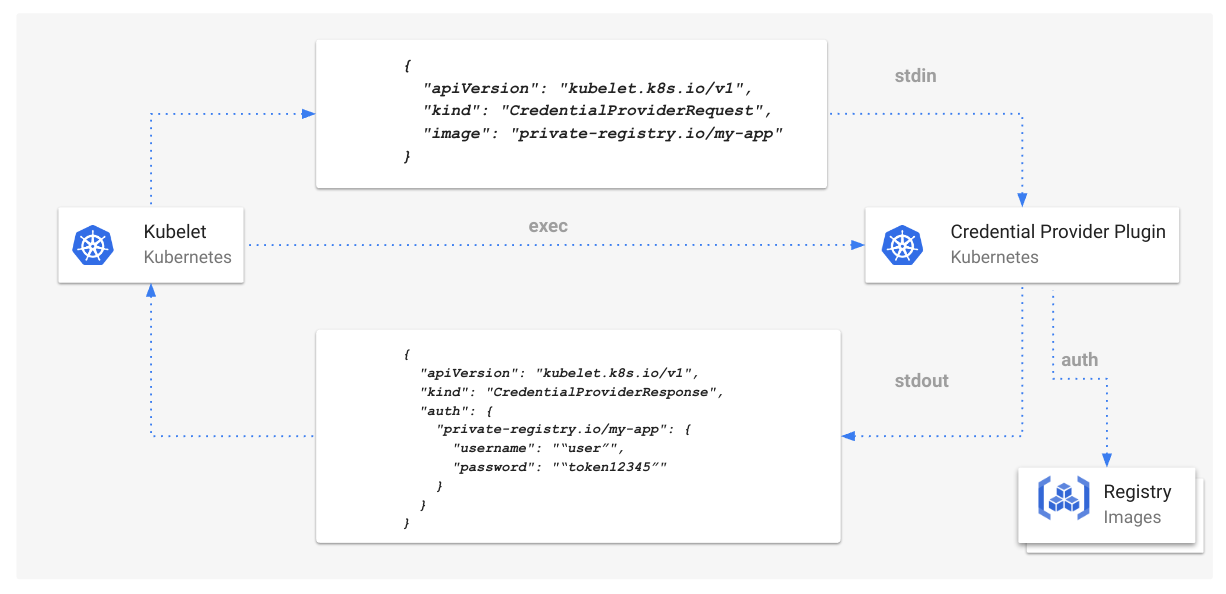
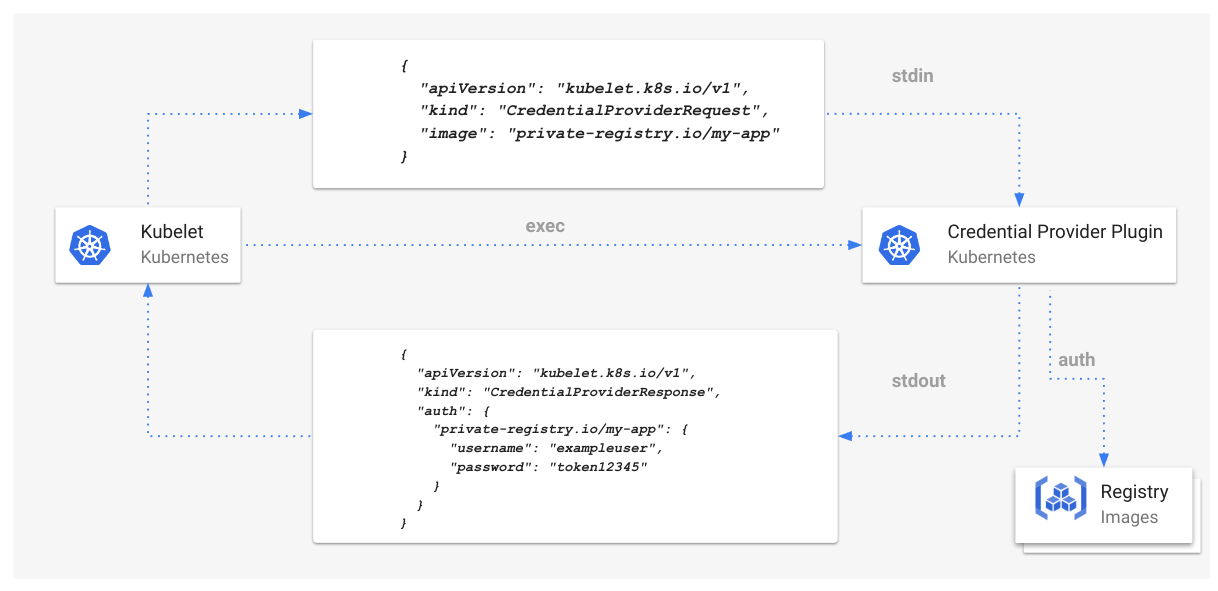
address review comments for minor fixes

diff --git a/content/en/blog/_posts/2022-12-22-kubelet-credential-providers/index.md b/content/en/blog/_posts/2022-12-22-kubelet-credential-providers/index.md
@@ -7,8 +7,9 @@ slug: kubelet-credential-providers
 
 **Authors:** Andrew Sy Kim (Google), Dixita Narang (Google)
 
-Kubernetes v1.26 introduced generally available (GA) support for _kubelet credential
-provider plugins_, offering an extensible plugin framework to dynamically fetch credentials
+Kubernetes v1.26 introduced generally available (GA) support for [_kubelet credential
+provider plugins_]( /docs/tasks/kubelet-credential-provider/kubelet-credential-provider/),
+offering an extensible plugin framework to dynamically fetch credentials
 for any container image registry.
 
 ## Background
@@ -20,7 +21,7 @@ Amazon Elastic Container Registry, Azure Container Registry, and Google Cloud Co
 {{< figure src="kubelet-credential-providers-in-tree.png" caption="Figure 1: Kubelet built-in credential provider support for Amazon Elastic Container Registry, Azure Container Registry, and Google Cloud Container Registry." >}}
 
 Kubernetes v1.20 introduced alpha support for kubelet credential providers plugins,
-which provide a mechanism for the kubelet to dynamically authenticate and pull images
+which provides a mechanism for the kubelet to dynamically authenticate and pull images
 for arbitrary container registries - whether these are public registries, managed services,
 or even a self-hosted registry.
 In Kubernetes v1.26, this feature is now GA
@@ -35,18 +36,18 @@ other than ACR (Azure Container Registry), ECR (Elastic Container Registry), or 
 The new plugin mechanism can be used in any cluster, and lets you authenticate to new registries without
 any changes to Kubernetes itself. Any cloud provider or vendor can publish a plugin that lets you authenticate with their image registry.
 
-## How it Works
+## How it works
 
-The kubelet and the credential provider plugin binary communicate through stdio (stdin, stdout, and stderr) by sending and receiving
+The kubelet and the exec plugin binary communicate through stdio (stdin, stdout, and stderr) by sending and receiving
 json-serialized api-versioned types. If the exec plugin is enabled and the kubelet requires authentication information for an image
-that matches against a plugin, the kubelet will exec the plugin binary, passing the `CredentialProviderRequest` API via stdin. Then
+that matches against a plugin, the kubelet will execute the plugin binary, passing the `CredentialProviderRequest` API via stdin. Then
 the exec plugin communicates with the container registry to dynamically fetch the credentials and returns the credentials in an
 encoded response of the `CredentialProviderResponse` API to the kubelet via stdout.
 
 {{< figure src="kubelet-credential-providers-how-it-works.png" caption="Figure 3: Kubelet credential provider plugin flow" >}}
 
-On receiving credentials from the Kubelet, the plugin can also indicate how long credentials can be cached for, to prevent unecessary
-execution of the plugin by the Kubelet for subsequent image pull requests to the same registry. In cases where the cache duration
+On receiving credentials from the kubelet, the plugin can also indicate how long credentials can be cached for, to prevent unnecessary
+execution of the plugin by the kubelet for subsequent image pull requests to the same registry. In cases where the cache duration
 is not specified by the plugin, a default cache duration can be specified by the kubelet (more details below).
 
 ```json
@@ -56,8 +57,8 @@ is not specified by the plugin, a default cache duration can be specified by the
   "auth": {
     "cacheDuration": "6h",
     "private-registry.io/my-app": {
-      "username": "“user”",
-      "password": "“token12345”"
+      "username": "exampleuser",
+      "password": "token12345"
     }
   }
 }
@@ -66,9 +67,9 @@ is not specified by the plugin, a default cache duration can be specified by the
 In addition, the plugin can specify the scope in which cached credentials are valid for. This is specified through the `cacheKeyType` field
 in `CredentialProviderResponse`. When the value is `Image`, the kubelet will only use cached credentials for future image pulls that exactly
 match the image of the first request. When the value is `Registry`, the kubelet will use cached credentials for any subsequent image pulls
-that originate from the same registry host, but using different paths (e.g. `gcr.io/foo/bar` and `gcr.io/bar/foo` refer to different images
-from the same registry). And lastly, when the value is `Global`, the kubelet will use returned credentials for all images that match against
-the plugin, including images that can map to different registry hosts (e.g. gcr.io vs k8s.gcr.io). The `cacheKeyType` field is required by plugin
+destined for the same registry host but using different paths (for example, `gcr.io/foo/bar` and `gcr.io/bar/foo` refer to different images
+from the same registry). Lastly, when the value is `Global`, the kubelet will use returned credentials for all images that match against
+the plugin, including images that can map to different registry hosts (for example, gcr.io vs k8s.gcr.io). The `cacheKeyType` field is required by plugin
 implementations.
 
 ```json
@@ -78,8 +79,8 @@ implementations.
   "auth": {
     "cacheKeyType": "Registry",
     "private-registry.io/my-app": {
-      "username": "“user”",
-      "password": "“token12345”"
+      "username": "exampleuser",
+      "password": "token12345"
     }
   }
 }
@@ -93,7 +94,7 @@ a local directory accessible by the kubelet on every node. Then you set two comm
 * `--image-credential-provider-bin-dir`: the path to the directory where credential provider plugin binaries are located.
 
 The configuration file passed into `--image-credential-provider-config` is read by the kubelet to determine which exec plugins should be invoked for a container image used by a Pod.
-Note that the name of each "provider" must match the name of the binary located in the local directry specified in `--image-credential-provider-bin-dir`, otherwise the Kubelet
+Note that the name of each _provider_ must match the name of the binary located in the local directory specified in `--image-credential-provider-bin-dir`, otherwise the kubelet
 cannot locate the path of the plugin to invoke.
 
 ```yaml
